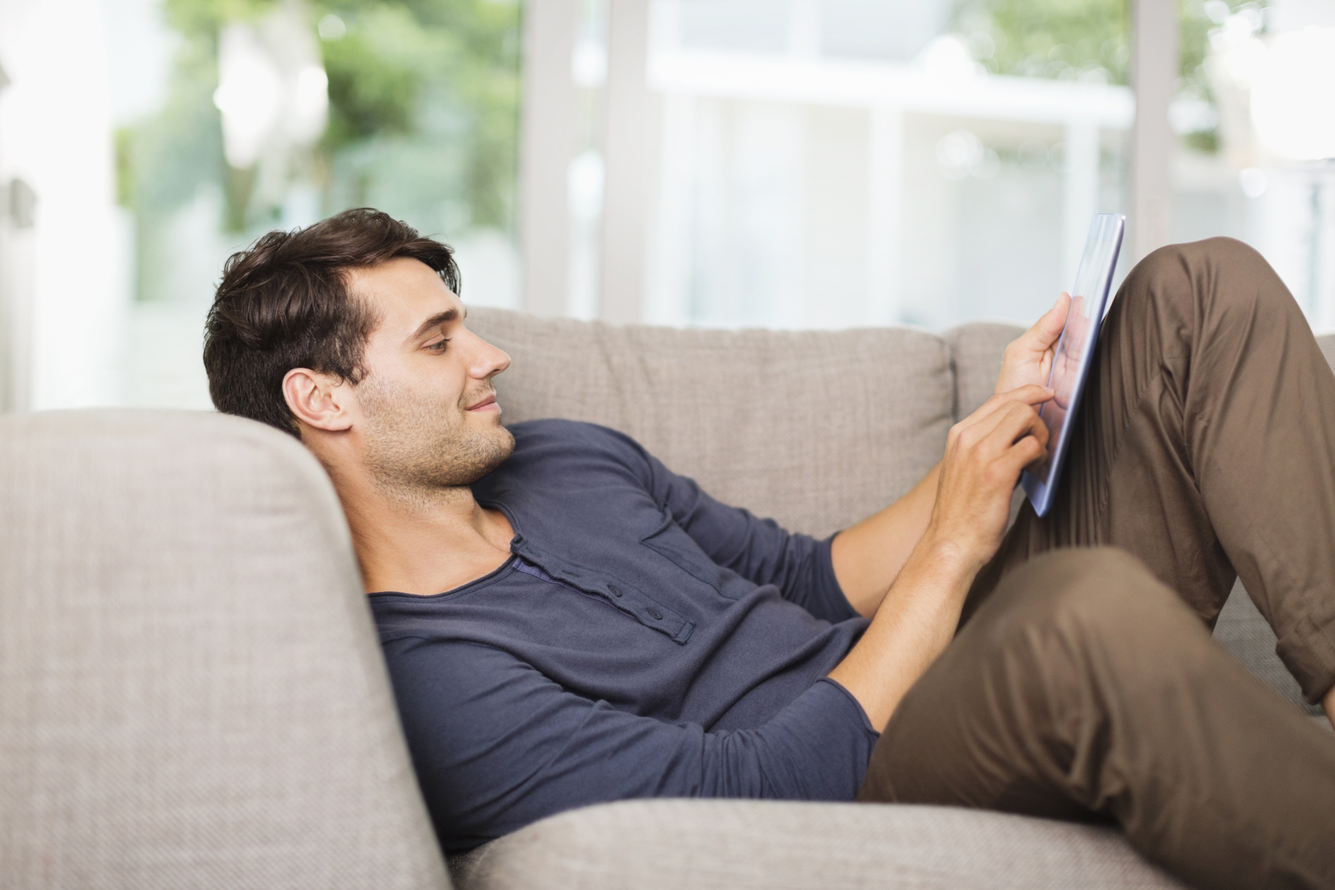
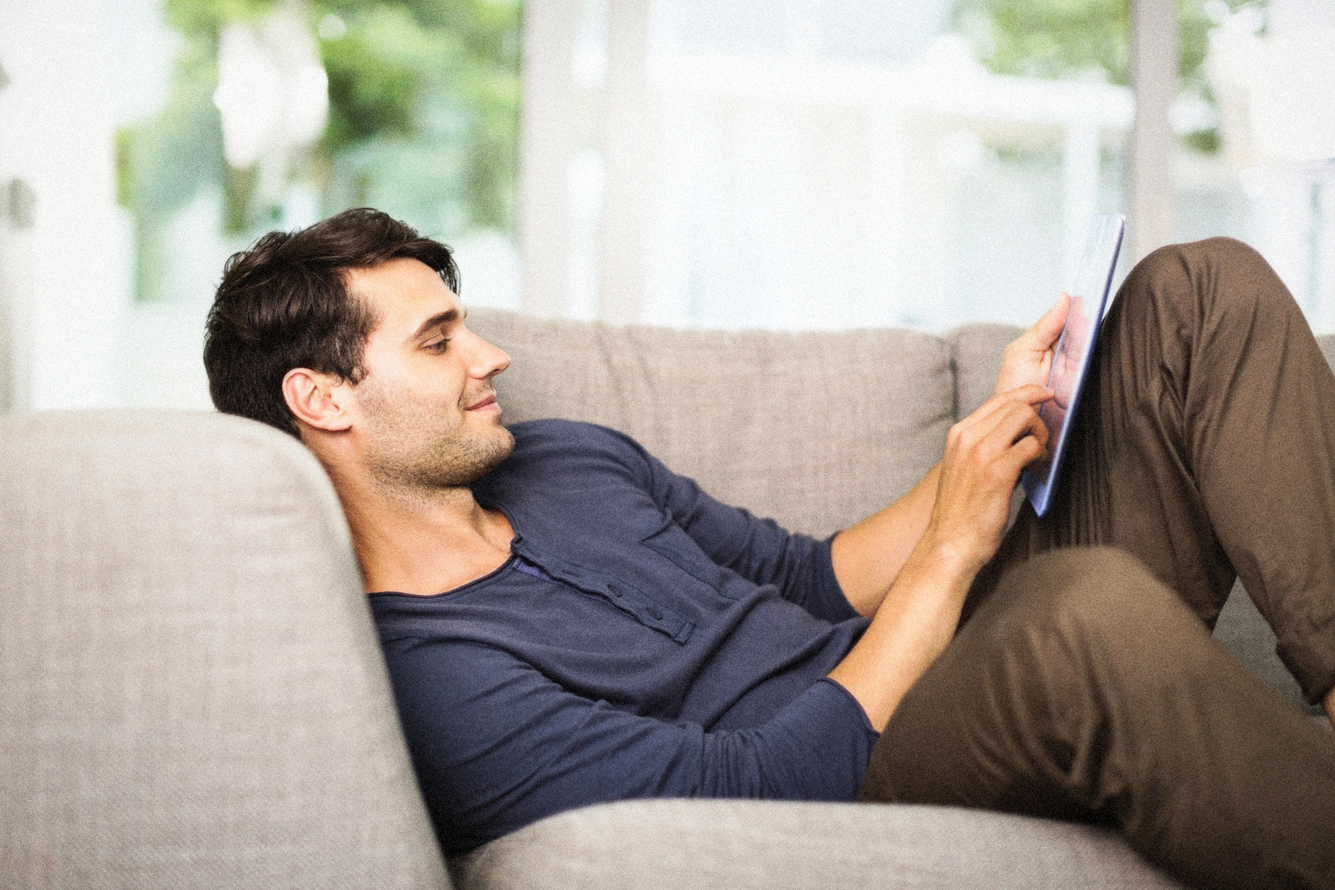
Update cropping.

diff --git a/app/assets/css/main.css b/app/assets/css/main.css
@@ -1,1 +1,1 @@
-@import url(http://fonts.googleapis.com/css?family=Raleway:300,400,600);*{margin:0;padding:0;-webkit-font-smoothing:antialiased}html{font-size:1em;max-width:100vw}a{color:inherit;text-decoration:none;cursor:pointer}body{position:relative;text-align:center;background-color:eee}.sg-wrapper{display:block;position:relative;width:100%;font-size:0}.sg-box{display:block;margin:2vw 0;max-width:100vw;overflow:hidden;position:relative;background-color:#ffffff;font-size:1rem;width:100%}@media (min-width: 800px){.sg-box{height:auto !important}}.sg-full{clear:both;margin-left:0;margin-right:0;width:100%}.sg-full .sg-box{margin-left:0;margin-right:0}@media (min-width: 800px){.sg-box{margin-top:0}.sg-left{float:left;width:58%}.sg-left .sg-box{margin-left:0}.sg-right{float:right;width:40%}.sg-right .sg-box{margin-right:0}}#identity{position:relative;height:80vh;background-image:url("../img/man-relaxing.jpg");background-position:60% center;background-repeat:no-repeat;background-size:cover;margin-left:0;margin-top:0}#identity:before{display:block;content:"";width:100%;padding-top:73.09417%}#identity>.content{position:absolute;top:0;left:0;right:0;bottom:0}#identity .logo{height:30%;position:absolute;top:8%;left:50%;-webkit-transform:translateX(-50%);-ms-transform:translateX(-50%);transform:translateX(-50%);z-index:2}#identity .vertical-text{display:none;height:110%;position:absolute;top:50%;right:0;-webkit-transform:translate(0.1%, -50%);-ms-transform:translate(0.1%, -50%);transform:translate(0.1%, -50%)}@media (min-width: 800px){#identity .vertical-text{display:block}}@media (min-width: 430px){#identity{background-position:70% center;background-size:180%}}@media (min-width: 641px){#identity{background-position:80%;background-size:cover}}@media (min-width: 800px), (orientation: landscape){#identity{background-position:70% 35%;background-size:155%}}#kitchen-sketch{position:relative;height:220px;background-image:url("../img/render-interior-kitchen.jpg");background-position:center center;background-repeat:no-repeat;background-size:cover}#kitchen-sketch:before{display:block;content:"";width:100%;padding-top:83.39258%}#kitchen-sketch>.content{position:absolute;top:0;left:0;right:0;bottom:0}@media (min-width: 800px){#kitchen-sketch{display:inline-block;margin-right:2vw;width:34.48%}}#outside-sketch{position:relative;height:220px;background-image:url("../img/render-exterior-sketch.jpg");background-position:center center;background-repeat:no-repeat;background-size:cover}#outside-sketch:before{display:block;content:"";width:100%;padding-top:46.36859%}#outside-sketch>.content{position:absolute;top:0;left:0;right:0;bottom:0}@media (min-width: 800px){#outside-sketch{display:inline-block;width:calc(65.52% - 2vw)}}#learn-more{position:relative;display:none;background-color:#74C6DA}#learn-more:before{display:block;content:"";width:100%;padding-top:24.51613%}#learn-more>.content{position:absolute;top:0;left:0;right:0;bottom:0}#learn-more a{color:#ffffff;font:normal 300 1em "Raleway",sans-serif;font-size:1.5em;letter-spacing:1px;bottom:12%;position:absolute;left:10%}@media (min-width: 800px){#learn-more{display:block}}#learn-more-mobile{position:relative;background-color:#74C6DA}#learn-more-mobile:before{display:block;content:"";width:100%;padding-top:24.51613%}#learn-more-mobile>.content{position:absolute;top:0;left:0;right:0;bottom:0}#learn-more-mobile a{color:#ffffff;font:normal 300 1em "Raleway",sans-serif;font-size:1.5em;letter-spacing:1px;bottom:12%;position:absolute;right:10%}@media (min-width: 800px){#learn-more-mobile{display:none}}@media (min-width: 800px){.form-constraint{margin-bottom:1px !important}}#grand-b{position:relative;height:80vh;background-image:url("../img/sunset-couple.jpg");background-position:center 30%;background-repeat:no-repeat;background-size:cover}#grand-b:before{display:block;content:"";width:100%;padding-top:123.1616%}#grand-b>.content{position:absolute;top:0;left:0;right:0;bottom:0}#grand-b .letter{height:90%;position:absolute;top:-2px;left:-1px}@media (min-width: 800px){#grand-b .letter{height:80%}}#tagline{padding:10% 0;background-image:url("../img/tile-bishops-b.gif");background-repeat:repeat;background-size:15%;text-align:left}#tagline .tagline{color:#ffffff;font:normal 300 1em "Raleway",sans-serif;font-size:2em;display:inline-block;line-height:1.3em;margin-left:6%;text-align:left}@media (min-width: 800px){#tagline{padding:4% 0 10%;background-size:9%}#tagline .tagline{font-size:3.2em}}@media (min-width: 1100px){#tagline{background-size:75px}}#footer{padding:50px 5% 20px;background-color:#8E8F93;text-align:center}#footer h3,#footer .contact,#footer .legal{display:block;color:#ffffff;font:normal 300 1em "Raleway",sans-serif;font-weight:400}#footer h3{font-size:1em;letter-spacing:1.3px;line-height:.5em}#footer .contact{margin:5px 0}#footer .contact li{display:inline-block;font-size:.75em;letter-spacing:1px;opacity:.8}#footer .legal{font-size:.65em;letter-spacing:0.6px;opacity:.7}@media (min-width: 800px){#footer{padding:6% 0 2%}}#contact-form{margin-bottom:35px;text-align:right}#contact-form input,#contact-form textarea{color:#8E8F93;font:normal 300 1em "Raleway",sans-serif}#contact-form .field{box-sizing:border-box;display:block;height:35px;margin:20px 0;padding:5px 10px;width:100%;border:1px solid #74C6DA;color:#74C6DA;font-size:.8em;font-weight:400;letter-spacing:.75px;outline:none}#contact-form .field:first-of-type{margin-top:0}#contact-form .field::-webkit-input-placeholder{color:#8E8F93;font-weight:300}#contact-form .field::-moz-placeholder{color:#8E8F93;font-weight:300}#contact-form .field:-ms-input-placeholder{color:#8E8F93;font-weight:300}#contact-form .field::placeholder{color:#8E8F93;font-weight:300}#contact-form .field.invalid{border:1px solid red;color:red}#contact-form .submit{box-sizing:border-box;height:35px;min-width:60px;padding:0 10px;background-color:#74C6DA;border:none;border-radius:0;color:#ffffff;cursor:pointer;font-size:.7em;letter-spacing:1px;outline:none}#submission-response{display:none;margin:30px 0 40px;text-align:center}#submission-response h3{font-size:1.5em;letter-spacing:1px;line-height:1.25em;text-align:center}#submission-response.active{display:block}.contact-form-wrapper{box-sizing:border-box;display:none;height:auto;margin:0;opacity:0;padding:35px;position:relative;width:100%;background-image:url("../img/tile-bishops-b.gif");background-repeat:repeat;background-size:70px;font-size:1rem;-webkit-transition:all 200ms ease;transition:all 200ms ease}.contact-form-wrapper .inner{box-sizing:border-box;height:100%;overflow:hidden;padding:10% 5% 125px;position:relative;width:100%;background:#ffffff;text-align:center}@media (min-width: 800px){.contact-form-wrapper .inner{padding-top:5%}}.contact-form-wrapper .close{color:#8E8F93;font:normal 300 1em "Raleway",sans-serif;font-size:.8em;text-transform:uppercase;display:block;padding:12px 12px;position:absolute;top:0;right:0}.contact-form-wrapper .close:hover{color:#74C6DA}.contact-form-wrapper h3{color:#8E8F93;font:normal 300 1em "Raleway",sans-serif;font-size:1.4em;font-weight:400;line-height:.75em;text-align:left;display:block;margin-bottom:30px;margin-left:11px;margin-top:.5em}.contact-form-wrapper .logo{position:absolute;bottom:0;left:50%;-webkit-transform:translate(-50%, -45px);-ms-transform:translate(-50%, -45px);transform:translate(-50%, -45px);height:80px}.contact-form-wrapper .logo svg{max-height:100%;max-width:100%}@media (min-width: 800px){.contact-form-wrapper .logo{bottom:0%;margin-bottom:-8px}}@media (min-width: 800px){.contact-form-wrapper{position:fixed;top:50%;left:50%;-webkit-transform:translate(-50%, -50%);-ms-transform:translate(-50%, -50%);transform:translate(-50%, -50%);width:650px;z-index:10}}@media (min-width: 800px) and (min-height: 700px){.contact-form-wrapper{top:40%}}
+@import url(http://fonts.googleapis.com/css?family=Raleway:300,400,600);*{margin:0;padding:0;-webkit-font-smoothing:antialiased}html{font-size:1em;max-width:100vw}a{color:inherit;text-decoration:none;cursor:pointer}body{position:relative;text-align:center;background-color:eee}.sg-wrapper{display:block;position:relative;width:100%;font-size:0}.sg-box{display:block;margin:2vw 0;max-width:100vw;overflow:hidden;position:relative;background-color:#ffffff;font-size:1rem;width:100%}@media (min-width: 800px){.sg-box{height:auto !important}}.sg-full{clear:both;margin-left:0;margin-right:0;width:100%}.sg-full .sg-box{margin-left:0;margin-right:0}@media (min-width: 800px){.sg-box{margin-top:0}.sg-left{float:left;width:58%}.sg-left .sg-box{margin-left:0}.sg-right{float:right;width:40%}.sg-right .sg-box{margin-right:0}}#identity{position:relative;height:80vh;background-image:url("../img/man-relaxing.jpg");background-position:60% 100%;background-repeat:no-repeat;background-size:cover;margin-left:0;margin-top:0}#identity:before{display:block;content:"";width:100%;padding-top:73.09417%}#identity>.content{position:absolute;top:0;left:0;right:0;bottom:0}#identity .logo{height:30%;position:absolute;top:6%;left:50%;-webkit-transform:translateX(-50%);-ms-transform:translateX(-50%);transform:translateX(-50%);z-index:2}#identity .vertical-text{display:none;height:110%;position:absolute;top:50%;right:0;-webkit-transform:translate(0.1%, -50%);-ms-transform:translate(0.1%, -50%);transform:translate(0.1%, -50%)}@media (min-width: 800px){#identity .vertical-text{display:block}}@media (min-width: 500px){#identity{background-position:70% 30%;background-size:cover}}@media (min-width: 641px){#identity{background-position:80% 31%;background-size:cover}}@media (min-width: 800px), (orientation: landscape){#identity{background-position:70% 25%;background-size:155%}}#kitchen-sketch{position:relative;height:220px;background-image:url("../img/render-interior-kitchen.jpg");background-position:center center;background-repeat:no-repeat;background-size:cover}#kitchen-sketch:before{display:block;content:"";width:100%;padding-top:83.39258%}#kitchen-sketch>.content{position:absolute;top:0;left:0;right:0;bottom:0}@media (min-width: 800px){#kitchen-sketch{display:inline-block;margin-right:2vw;width:34.48%}}#outside-sketch{position:relative;height:220px;background-image:url("../img/render-exterior-sketch.jpg");background-position:center center;background-repeat:no-repeat;background-size:cover}#outside-sketch:before{display:block;content:"";width:100%;padding-top:46.36859%}#outside-sketch>.content{position:absolute;top:0;left:0;right:0;bottom:0}@media (min-width: 800px){#outside-sketch{display:inline-block;width:calc(65.52% - 2vw)}}#learn-more{position:relative;display:none;background-color:#74C6DA}#learn-more:before{display:block;content:"";width:100%;padding-top:24.51613%}#learn-more>.content{position:absolute;top:0;left:0;right:0;bottom:0}#learn-more a{color:#ffffff;font:normal 300 1em "Raleway",sans-serif;font-size:1.5em;letter-spacing:1px;bottom:12%;position:absolute;left:10%}@media (min-width: 800px){#learn-more{display:block}}#learn-more-mobile{position:relative;background-color:#74C6DA}#learn-more-mobile:before{display:block;content:"";width:100%;padding-top:24.51613%}#learn-more-mobile>.content{position:absolute;top:0;left:0;right:0;bottom:0}#learn-more-mobile a{color:#ffffff;font:normal 300 1em "Raleway",sans-serif;font-size:1.5em;letter-spacing:1px;bottom:12%;position:absolute;right:10%}@media (min-width: 800px){#learn-more-mobile{display:none}}@media (min-width: 800px){.form-constraint{margin-bottom:1px !important}}#grand-b{position:relative;height:80vh;background-image:url("../img/sunset-couple.jpg");background-position:center 30%;background-repeat:no-repeat;background-size:cover}#grand-b:before{display:block;content:"";width:100%;padding-top:123.1616%}#grand-b>.content{position:absolute;top:0;left:0;right:0;bottom:0}#grand-b .letter{height:90%;position:absolute;top:-2px;left:-1px}@media (min-width: 800px){#grand-b .letter{height:80%}}#tagline{padding:10% 0;background-image:url("../img/tile-bishops-b.gif");background-repeat:repeat;background-size:15%;text-align:left}#tagline .tagline{color:#ffffff;font:normal 300 1em "Raleway",sans-serif;font-size:2em;display:inline-block;line-height:1.3em;margin-left:6%;text-align:left}@media (min-width: 800px){#tagline{padding:4% 0 10%;background-size:9%}#tagline .tagline{font-size:3.2em}}@media (min-width: 1100px){#tagline{background-size:75px}}#footer{padding:50px 5% 20px;background-color:#8E8F93;text-align:center}#footer h3,#footer .contact,#footer .legal{display:block;color:#ffffff;font:normal 300 1em "Raleway",sans-serif;font-weight:400}#footer h3{font-size:1em;letter-spacing:1.3px;line-height:.5em}#footer .contact{margin:5px 0}#footer .contact li{display:inline-block;font-size:.75em;letter-spacing:1px;opacity:.8}#footer .legal{font-size:.65em;letter-spacing:0.6px;opacity:.7}@media (min-width: 800px){#footer{padding:6% 0 2%}}#contact-form{margin-bottom:35px;text-align:right}#contact-form input,#contact-form textarea{color:#8E8F93;font:normal 300 1em "Raleway",sans-serif}#contact-form .field{box-sizing:border-box;display:block;height:35px;margin:20px 0;padding:5px 10px;width:100%;border:1px solid #74C6DA;color:#74C6DA;font-size:.8em;font-weight:400;letter-spacing:.75px;outline:none}#contact-form .field:first-of-type{margin-top:0}#contact-form .field::-webkit-input-placeholder{color:#8E8F93;font-weight:300}#contact-form .field::-moz-placeholder{color:#8E8F93;font-weight:300}#contact-form .field:-ms-input-placeholder{color:#8E8F93;font-weight:300}#contact-form .field::placeholder{color:#8E8F93;font-weight:300}#contact-form .field.invalid{border:1px solid red;color:red}#contact-form .submit{box-sizing:border-box;height:35px;min-width:60px;padding:0 10px;background-color:#74C6DA;border:none;border-radius:0;color:#ffffff;cursor:pointer;font-size:.7em;letter-spacing:1px;outline:none}#submission-response{display:none;margin:30px 0 40px;text-align:center}#submission-response h3{font-size:1.5em;letter-spacing:1px;line-height:1.25em;text-align:center}#submission-response.active{display:block}.contact-form-wrapper{box-sizing:border-box;display:none;height:auto;margin:0;opacity:0;padding:35px;position:relative;width:100%;background-image:url("../img/tile-bishops-b.gif");background-repeat:repeat;background-size:70px;font-size:1rem;-webkit-transition:all 200ms ease;transition:all 200ms ease}.contact-form-wrapper .inner{box-sizing:border-box;height:100%;overflow:hidden;padding:10% 5% 125px;position:relative;width:100%;background:#ffffff;text-align:center}@media (min-width: 800px){.contact-form-wrapper .inner{padding-top:5%}}.contact-form-wrapper .close{color:#8E8F93;font:normal 300 1em "Raleway",sans-serif;font-size:.8em;text-transform:uppercase;display:block;padding:12px 12px;position:absolute;top:0;right:0}.contact-form-wrapper .close:hover{color:#74C6DA}.contact-form-wrapper h3{color:#8E8F93;font:normal 300 1em "Raleway",sans-serif;font-size:1.4em;font-weight:400;line-height:.75em;text-align:left;display:block;margin-bottom:30px;margin-left:11px;margin-top:.5em}.contact-form-wrapper .logo{position:absolute;bottom:0;left:50%;-webkit-transform:translate(-50%, -45px);-ms-transform:translate(-50%, -45px);transform:translate(-50%, -45px);height:80px}.contact-form-wrapper .logo svg{max-height:100%;max-width:100%}@media (min-width: 800px){.contact-form-wrapper .logo{bottom:0%;margin-bottom:-8px}}@media (min-width: 800px){.contact-form-wrapper{position:fixed;top:50%;left:50%;-webkit-transform:translate(-50%, -50%);-ms-transform:translate(-50%, -50%);transform:translate(-50%, -50%);width:650px;z-index:10}}@media (min-width: 800px) and (min-height: 700px){.contact-form-wrapper{top:40%}}

diff --git a/src/assets/sass/main.scss b/src/assets/sass/main.scss
@@ -75,7 +75,7 @@ body {
    @include aspect-ratio(1115,815);
    height: 80vh;
    background-image: url('../img/man-relaxing.jpg');
-   background-position: 60% center;
+   background-position: 60% 100%;
    background-repeat: no-repeat;
    background-size: cover;
    margin-left: 0;
@@ -83,7 +83,7 @@ body {
    .logo {
       height: 30%;
       position: absolute;
-      top: 8%;left: 50%;
+      top: 6%;left: 50%;
       transform: translateX(-50%);
       z-index: 2;
    }
@@ -97,16 +97,16 @@ body {
          display: block;
       }
    }
-   @media (min-width: 430px) {
-     background-position: 70% center;
-     background-size: 180%;
+   @media (min-width: 500px) {
+     background-position: 70% 30%;
+     background-size: cover;
    }
    @media (min-width: 641px) {
-      background-position: 80%;
+      background-position: 80% 31%;
       background-size: cover;
    }
    @media (min-width: $mobile-min-width), (orientation:landscape) {
-      background-position: 70% 35%;
+      background-position: 70% 25%;
       background-size: 155%;
    }
 }
